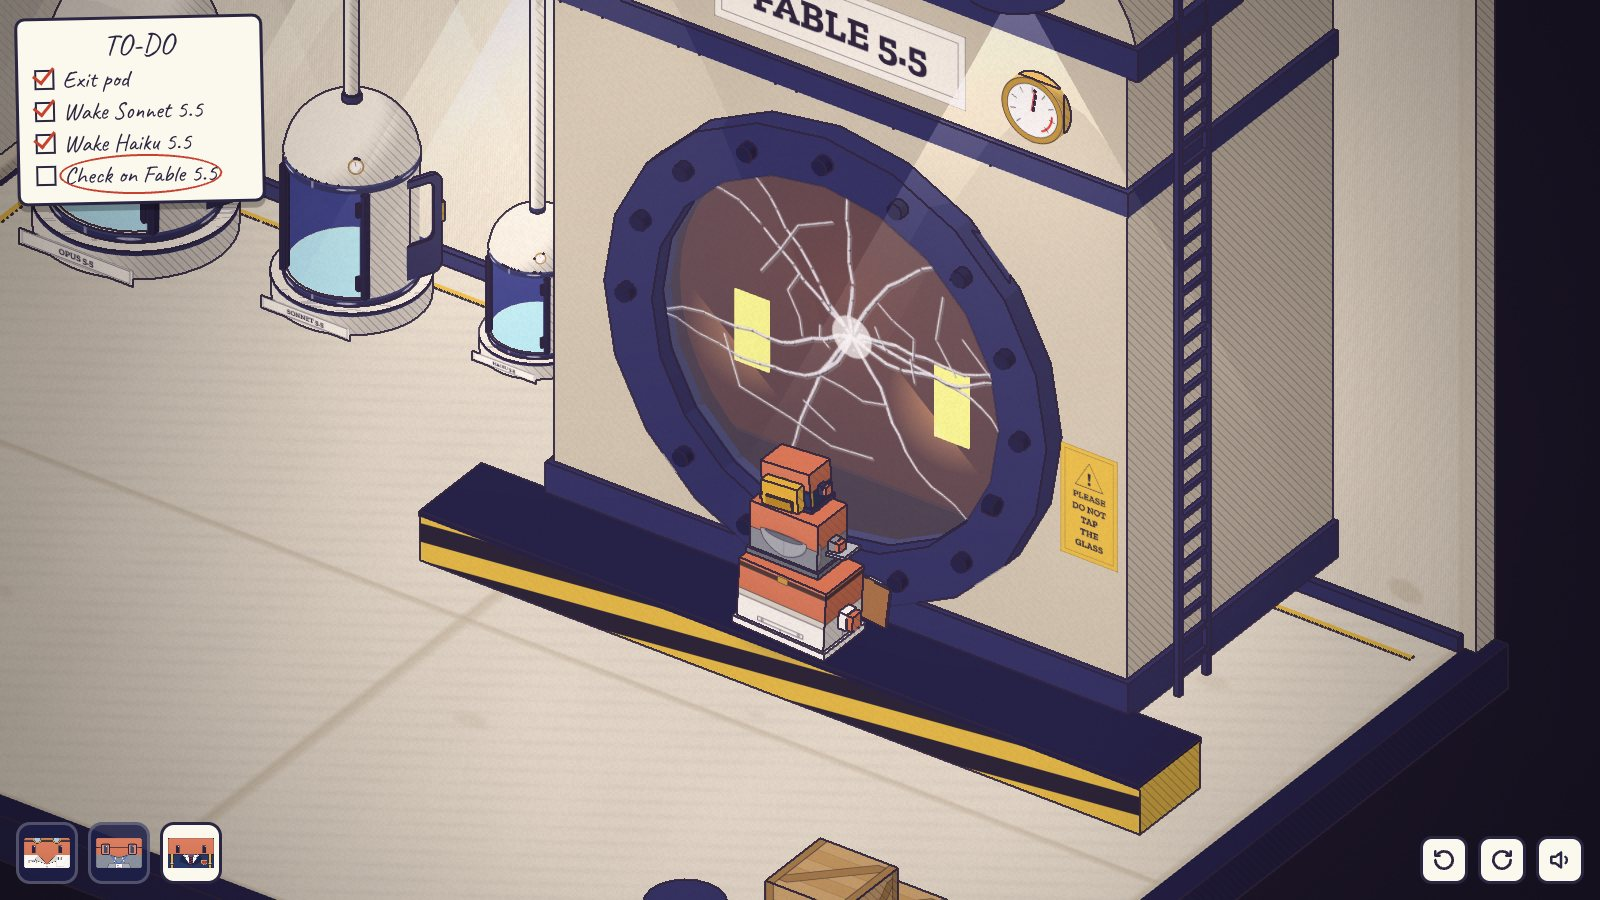
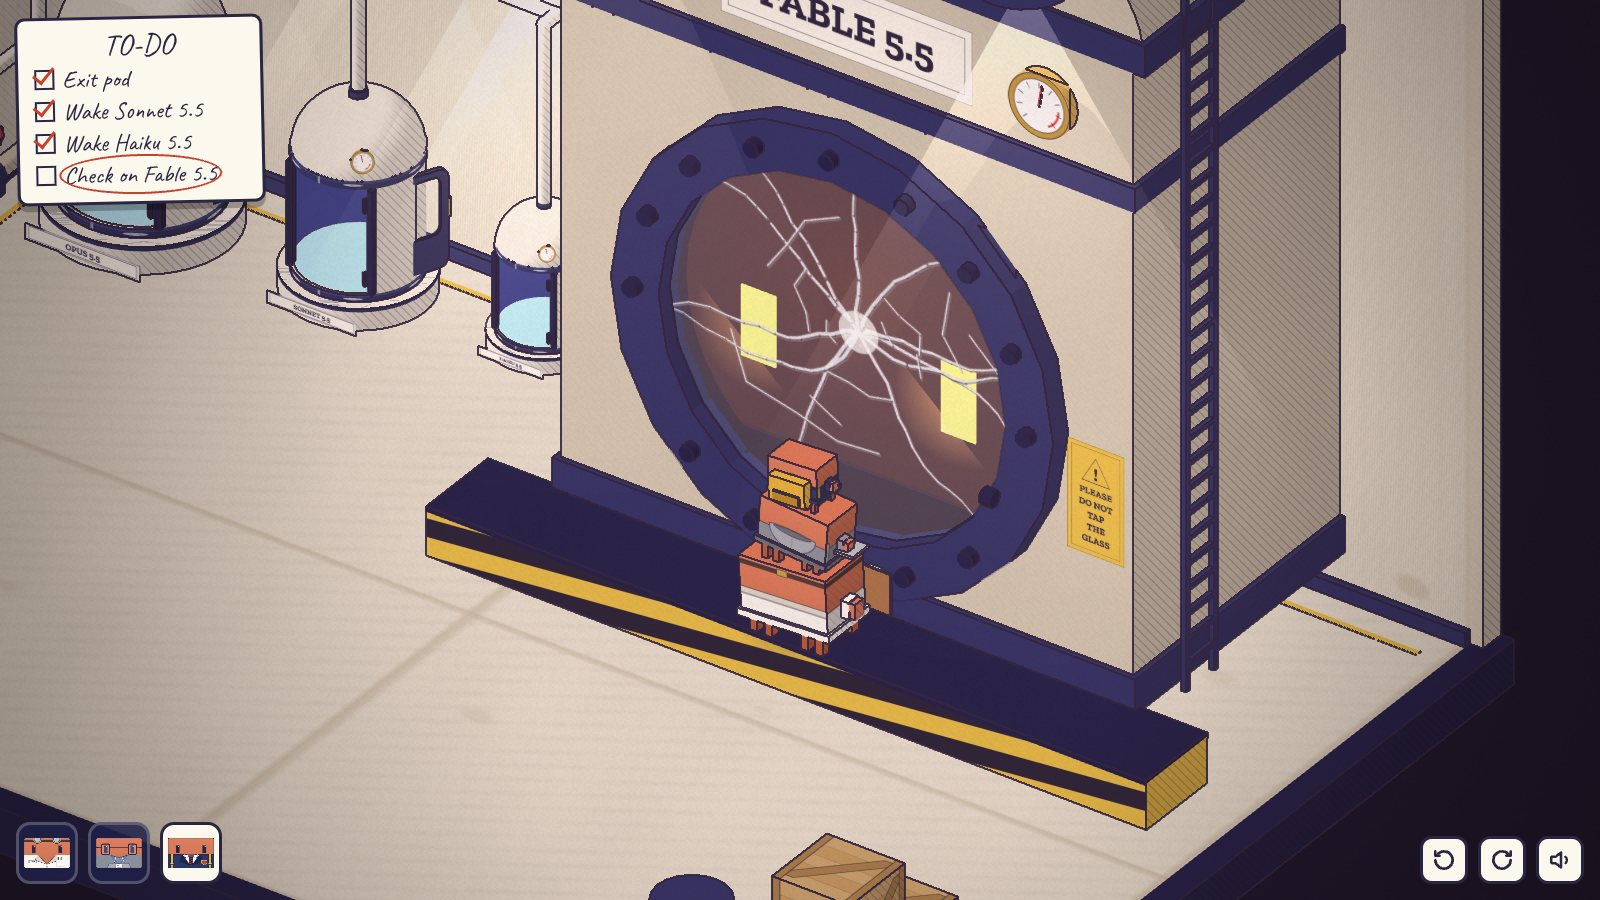
Make the steam valves readable and give the Clawds visible legs
The steam station is rebuilt so the plumbing is physically consistent:
the feed comes down the corner into a header, through an inline main
gate valve, then three tees. Each branch has a ball valve and its own
gauge in one row, then steps out to its own depth and height, so the
pipes cross in view but never touch. Branch A no longer runs into the
feed pipe.

Valve state is visible at a glance: a lever along the pipe is open,
across it is closed, and the main valve's yellow stem rises when open.
A live branch weeps steam at its joints so its route can be followed,
and partial pressure at Sonnet's pod hisses without melting the ice.

The legs were one row under the middle of the body and the camera never
saw them. Clawds now have a front and a back row of four, flush with
the faces, and the coat hem no longer hangs over them.

Claude-Session: https://claude.ai/code/session_01Wui1FHBhAM7nHXEEe48x3D

diff --git a/src/diorama/level0.js b/src/diorama/level0.js
@@ -5,11 +5,14 @@
 
    Puzzles (in the order they usually fall):
      1. Inside the pod: wipe the frost, then turn the wheel to get out.
-     2. Sonnet's pod is frozen shut. Steam comes from the reactor through one
-        main valve and three unlabelled branch valves whose pipes cross on the
-        back wall. Pressure splits between open branches, so Sonnet's pod only
-        thaws when its branch is the only one open. Trace the pipes (turn the
-        diorama to see which pipe passes in front) or read the pod gauges.
+     2. Sonnet's pod is frozen shut. Steam comes from the reactor down the
+        corner into a header on the left wall: one main gate valve (its stem
+        rises when open), then three unlabelled branch ball valves (lever along
+        the pipe = open, across = closed), each with its own gauge. The branch
+        pipes climb the wall at three depths, cross, and run along the back wall
+        to the pods. Pressure splits between open branches, so Sonnet's pod
+        only thaws when its branch is the only one open. Steam weeps from the
+        joints of a live branch, so its route can be followed.
      3. Haiku's rattling pod has lost its wheel. Haiku keeps looking at it:
         it is on top of the locker, 2.2 high. Push the caster crate under it,
         Opus climbs the crate, Sonnet climbs Opus.
@@ -34,13 +37,14 @@
   };
   const RX = 11.2;                       // reactor centre
   const COL_X = 7.05;                    // column between the bay and containment
-  const VALVE_Y = 0.88;                  // the three branch valves sit side by side on the left wall
+  const VALVE_Y = 0.9;                   // the three branch valves sit in a row on the left wall
+  const VALVE_X = 0.65;
   const VALVES = [                       // which pod each one feeds (the pipes say so, nothing else does)
-    { id: 'A', z: 3.1, depth: 0.25, pod: 'sonnet' },
-    { id: 'B', z: 3.6, depth: 0.45, pod: 'opus' },
-    { id: 'C', z: 4.1, depth: 0.65, pod: 'haiku' },
+    { id: 'A', z: 3.15, depth: 0.9, pod: 'sonnet' },
+    { id: 'B', z: 3.75, depth: 0.65, pod: 'opus' },
+    { id: 'C', z: 4.35, depth: 0.4, pod: 'haiku' },
   ];
-  const MAIN = { x: 0.37, y: 0.95, z: 2.6 };
+  const MAIN = { x: 0.3, y: 1.0, z: 2.1 };  // gate valve in the header, wheel on top
   const LOCKER = { x: 0.3, z: 6.0, h: 2.2 };
   const CRATE0 = [2.3, 8.0];
 
@@ -149,43 +153,72 @@
     L.pipeGroups = { back: backPipes, left: leftPipes };
     // feed (thicker, reactor-coloured)
     run(backPipes, [[RX - 3.3, 6.2, 1.2], [RX - 3.3 - 0.4, 6.2, 1.2], [RX - 3.7, 6.2, 0.3], [0.3, 6.2, 0.3]], 0.1, P.REACTOR);
-    run(leftPipes, [[0.3, 6.2, 0.3], [0.3, 0.45, 0.3], [0.3, 0.45, 4.15]], 0.1, P.REACTOR);
+    run(leftPipes, [[0.3, 6.2, 0.3], [0.3, 0.45, 0.3], [0.3, 0.45, 4.3]], 0.1, P.REACTOR);
     [2.0, 4.0].forEach(x => backPipes.add(K.flange(x, 6.2, 0.3, 0.1, 'x')));
     leftPipes.add(K.flange(0.3, 3.0, 0.3, 0.1, 'y'));
+    // header along the left wall, capped at the far end
+    leftPipes.add(K.cyl(0.13, 0.13, 0.06, P.NAVY, 0.3, 0.45, 4.6, 14).rotateX(PI / 2));
+    // main gate valve, inline in the header; the yellow stem rises out of the wheel when open
+    leftPipes.add(K.box(0.3, 0.3, 0.36, P.NAVY, 0.3, 0.45, MAIN.z));
+    [MAIN.z - 0.2, MAIN.z + 0.2].forEach(z => leftPipes.add(K.flange(0.3, 0.45, z, 0.1, 'z')));
+    leftPipes.add(K.cyl(0.07, 0.09, 0.4, P.NAVY, 0.3, 0.78, MAIN.z, 12));
+    const mainW = K.wheel(0.22);
+    mainW.position.set(MAIN.x, MAIN.y, MAIN.z);
+    mainW.rotation.x = -PI / 2;
+    leftPipes.add(mainW);
+    const stemG = new T.Group();
+    stemG.position.set(MAIN.x, MAIN.y, MAIN.z);
+    stemG.add(K.cyl(0.045, 0.045, 1, P.SAFETY, 0, 0.5, 0, 8));
+    stemG.scale.y = 0.06;
+    leftPipes.add(stemG);
+    L.main = { mesh: mainW, stem: stemG, open: false };
+
+    // branches: a tee off the header, up through a ball valve and a gauge (all three in
+    // one row), then each steps out to its own depth and runs across the left wall and
+    // the back wall to its pod. Different depths and heights: they cross in view but
+    // never touch.
     const b = (x, y, z) => [x, y, z];
+    const topOf = n => L.pods[n].riserTop;
+    const VX = VALVE_X;
     const branch = {
-      A: { left: [b(0.25, 0.45, 3.1), b(0.25, 2.8, 3.1), b(0.25, 2.8, 4.55), b(0.25, 4.2, 4.55), b(0.25, 4.2, 0.35)],
-           back: [b(0.25, 4.2, 0.35), b(3.85, 4.2, 0.35), b(3.85, 4.2, 0.95), b(3.85, L.pods.sonnet.riserTop, 0.95)] },
-      B: { left: [b(0.45, 0.45, 3.6), b(0.45, 2.2, 3.6), b(0.45, 2.2, 2.6), b(0.45, 5.0, 2.6), b(0.45, 5.0, 0.6)],
-           back: [b(0.45, 5.0, 0.6), b(1.5, 5.0, 0.6), b(1.5, 5.0, 1.15), b(1.5, L.pods.opus.riserTop, 1.15)] },
-      C: { left: [b(0.65, 0.45, 4.1), b(0.65, 3.4, 4.1), b(0.65, 3.4, 2.0), b(0.65, 4.6, 2.0), b(0.65, 4.6, 0.85)],
-           back: [b(0.65, 4.6, 0.85), b(5.85, 4.6, 0.85), b(5.85, 4.6, 0.75), b(5.85, L.pods.haiku.riserTop, 0.75)] },
+      A: { left: [b(0.3, 0.45, 3.15), b(VX, 0.45, 3.15), b(VX, 1.85, 3.15), b(0.9, 1.85, 3.15), b(0.9, 2.3, 3.15), b(0.9, 2.3, 2.0), b(0.9, 3.3, 2.0), b(0.9, 3.3, 0.9)],
+           back: [b(0.9, 3.3, 0.9), b(3.85, 3.3, 0.9), b(3.85, 3.3, 0.95), b(3.85, topOf('sonnet'), 0.95)] },
+      B: { left: [b(0.3, 0.45, 3.75), b(VX, 0.45, 3.75), b(VX, 2.05, 3.75), b(VX, 2.05, 2.6), b(VX, 3.9, 2.6), b(VX, 3.9, 0.7)],
+           back: [b(VX, 3.9, 0.7), b(1.5, 3.9, 0.7), b(1.5, 3.9, 1.15), b(1.5, topOf('opus'), 1.15)] },
+      C: { left: [b(0.3, 0.45, 4.35), b(VX, 0.45, 4.35), b(VX, 1.85, 4.35), b(0.4, 1.85, 4.35), b(0.4, 2.7, 4.35), b(0.4, 2.7, 1.7), b(0.4, 3.6, 1.7), b(0.4, 3.6, 0.55)],
+           back: [b(0.4, 3.6, 0.55), b(5.85, 3.6, 0.55), b(5.85, 3.6, 0.75), b(5.85, topOf('haiku'), 0.75)] },
     };
     Object.values(branch).forEach(br => { run(leftPipes, br.left); run(backPipes, br.back); });
-    // header stubs out to each branch's depth
-    VALVES.forEach(v => { if (v.depth > 0.3) leftPipes.add(K.pipe(0.3, 0.45, v.z, v.depth, 0.45, v.z, PR)); });
+    // where steam weeps from a live branch: its elbows above the valve, on whichever wall they hang
+    L.weeps = {};
+    Object.entries(branch).forEach(([id, br]) => {
+      L.weeps[id] = [
+        ...br.left.slice(2).map(p => ({ p, wall: 'left' })),
+        ...br.back.slice(1, -1).map(p => ({ p, wall: 'back' })),
+      ];
+    });
 
-    // valve wheels, facing into the room
+    // ball valves: lever along the pipe (up) = open, across the pipe = closed
     L.valves = {};
     VALVES.forEach(v => {
-      const w = K.wheel(0.13);
-      w.position.set(v.depth + 0.11, VALVE_Y, v.z);
-      w.rotation.y = PI / 2;
-      leftPipes.add(w);
-      leftPipes.add(K.box(0.1, 0.1, 0.1, P.NAVY, v.depth, VALVE_Y, v.z));
-      L.valves[v.id] = Object.assign({ mesh: w, open: v.id !== 'A', y: VALVE_Y }, v);
+      const d = VALVE_X;
+      const body = K.cyl(0.1, 0.1, 0.24, P.NAVY, d, VALVE_Y, v.z, 12);
+      leftPipes.add(body);
+      leftPipes.add(K.cyl(0.03, 0.03, 0.14, P.NAVY, d + 0.07, VALVE_Y, v.z, 8).rotateZ(PI / 2));
+      const lever = new T.Group();
+      lever.position.set(d + 0.14, VALVE_Y, v.z);
+      lever.add(K.box(0.035, 0.4, 0.07, P.WHEEL_RED, 0, 0.18, 0));
+      lever.add(K.box(0.05, 0.1, 0.09, P.WHEEL_RED_DARK, 0, 0.36, 0));
+      leftPipes.add(lever);
+      const g = K.gauge(0.13);
+      g.position.set(d + 0.1, VALVE_Y + 0.6, v.z);
+      g.rotation.y = PI / 2;
+      leftPipes.add(K.pipe(d, VALVE_Y + 0.6, v.z, d + 0.06, VALVE_Y + 0.6, v.z, 0.025, P.NAVY));
+      leftPipes.add(g);
+      const open = v.id !== 'A';
+      lever.rotation.x = open ? 0 : PI / 2;
+      L.valves[v.id] = Object.assign({ mesh: lever, body, lever, gauge: g, open, y: VALVE_Y }, v);
     });
-    const mainW = K.wheel(0.2);
-    mainW.position.set(MAIN.x + 0.04, MAIN.y, MAIN.z);
-    mainW.rotation.y = PI / 2;
-    leftPipes.add(mainW);
-    leftPipes.add(K.pipe(0.3, 0.45, MAIN.z, 0.3, MAIN.y, MAIN.z, 0.08, P.REACTOR));
-    leftPipes.add(K.box(0.14, 0.18, 0.18, P.NAVY, 0.3, MAIN.y, MAIN.z));
-    const mainG = K.gauge(0.2);
-    mainG.position.set(0.12, MAIN.y + 0.75, MAIN.z);
-    mainG.rotation.y = PI / 2;
-    leftPipes.add(mainG);
-    L.main = { mesh: mainW, open: false, gauge: mainG };
     back.userData.extra = [backPipes];
     left.userData.extra = [leftPipes];
 
@@ -267,7 +300,7 @@
     Object.values(PODS).forEach(c => G.blockCircle(c.x, c.z, 0.98 * c.k));
     G.blockRect(COL_X - 0.42, 0, COL_X + 0.42, 0.5);
     G.blockRect(RX - 3.3, 0, RX + 3.3, 3.4);
-    G.blockRect(0, 2.3, 0.95, 4.45, 0.2);
+    G.blockRect(0, 1.8, 1.0, 4.75, 0.2);
     G.blockRect(RX + 3.3, 2.2, RX + 3.65, 3.0, 0.2);
     G.blockRect(RX - 4.15, 3.4, RX + 4.15, 3.85, 0);
     G.height(RX - 4.15, 3.85, RX + 4.15, 4.4, 0.56);
@@ -280,5 +313,5 @@
     return L;
   }
 
-  CL.Level0 = { build, RW, RD, PODS, RX, VALVES, VALVE_Y, MAIN, LOCKER, CRATE0, COL_X };
+  CL.Level0 = { build, RW, RD, PODS, RX, VALVES, VALVE_Y, VALVE_X, MAIN, LOCKER, CRATE0, COL_X };
 })(window.CL = window.CL || {});

diff --git a/src/diorama/play0.js b/src/diorama/play0.js
@@ -231,7 +231,7 @@
     const crateObstacles = [
       [0, 0, LV.RW, 0.35], [0, LV.RD - 0.35, LV.RW, LV.RD], [0, 0, 0.35, LV.RD], [LV.RW - 0.35, 0, LV.RW, LV.RD],
       [LV.LOCKER.x - 0.3, LV.LOCKER.z - 0.55, LV.LOCKER.x + 0.3, LV.LOCKER.z + 0.55],
-      [LV.COL_X - 0.42, 0, LV.COL_X + 0.42, 0.5], [0, 2.3, 0.95, 4.45], [LV.RX - 4.15, 0, LV.RX + 4.15, 4.4],
+      [LV.COL_X - 0.42, 0, LV.COL_X + 0.42, 0.5], [0, 1.8, 1.0, 4.75], [LV.RX - 4.15, 0, LV.RX + 4.15, 4.4],
       [14.45, 7.5, 15.35, 9.35], [13.0, 8.7, 13.8, 9.5],
     ];
     // skip: an actor to ignore (the one moving the crate), or true to ignore all of them
@@ -511,30 +511,38 @@
       },
     });
 
-    // valve block + main valve
+    // valve block + main valve. The valves only change state here; onUpdate moves the
+    // levers and the stem to match, so what you see is always what the pipes do.
+    async function operate(a, dur) {
+      play('creak');
+      a.armR = 1.2; a.armL = 1.0;
+      await new Promise(res => world.tween(dur, u => { a.armR = 1.0 + 0.4 * Math.sin(u * PI * 4); }, res));
+      a.armR = 0; a.armL = 0;
+    }
     Object.values(L.valves).forEach(v => {
-      world.addPick(v.mesh, {
+      world.addPick([v.lever, v.body], {
         kind: 'valve',
         onClick: () => world.interact({
           spot: () => [1.5, v.z, -PI / 2],
           use: async a => {
             if (a.reachY < v.y - 0.02) { world.bubble(a, 'up'); return; }
             v.open = !v.open;
-            await turnWheel(a, v.mesh, v.open ? -1 : 1);
-            if (S.main && v.open) play('hiss');
+            await operate(a, 0.45);
             play('clunk');
+            if (S.main && v.open) play('hiss');
           },
         }),
       });
+      world.addPick(v.gauge, { kind: 'gauge', onClick: () => world.bubble(world.active, 'eye') });
     });
     world.addPick(L.main.mesh, {
       kind: 'valve',
       onClick: () => world.interact({
-        spot: () => [1.5, LV.MAIN.z, -PI / 2],
+        spot: () => [1.45, LV.MAIN.z + 0.4, -1.9],
         use: async a => {
           if (a.reachY < LV.MAIN.y - 0.02) { world.bubble(a, 'up'); return; }
           S.main = !S.main;
-          await turnWheel(a, L.main.mesh, S.main ? -1 : 1, 'z');
+          await operate(a, 0.9);
           play(S.main ? 'hiss' : 'clunk');
           if (S.main) burst(LV.MAIN.x + 0.3, LV.MAIN.y + 0.3, LV.MAIN.z, 6, 0.5, 0.12);
         },
@@ -577,8 +585,30 @@
         L.pods[n].gauge.userData.set(0.08 + 0.9 * S.shown[n] + 0.02 * Math.sin(t * 9) * S.shown[n]);
       });
       S.shown.main += ((S.main ? 1 : 0) - S.shown.main) * Math.min(1, dt * 2.5);
-      L.main.gauge.userData.set(0.05 + 0.9 * S.shown.main);
+      // levers swing to match their valve; the main stem rises as its wheel spins
+      Object.values(L.valves).forEach(v => {
+        const to = v.open ? 0 : PI / 2;
+        v.lever.rotation.x += (to - v.lever.rotation.x) * Math.min(1, dt * 9);
+        v.gauge.userData.set(0.05 + 0.9 * S.shown[v.pod] + 0.02 * Math.sin(t * 9) * S.shown[v.pod]);
+      });
+      const st = L.main.stem, sTo = S.main ? 0.5 : 0.06;
+      const ds = (sTo - st.scale.y) * Math.min(1, dt * 2.2);
+      st.scale.y += ds;
+      L.main.mesh.rotation.z += ds * 14;
+      // a live branch weeps steam at its joints, so its route can be followed
+      ['A', 'B', 'C'].forEach(id => {
+        const pr = S.pressure[L.valves[id].pod];
+        if (pr < 0.01 || Math.random() > dt * 5 * pr) return;
+        const ws = L.weeps[id].filter(w => L.pipeGroups[w.wall].visible);
+        if (!ws.length) return;
+        const w = ws[Math.floor(Math.random() * ws.length)].p;
+        puff(w[0] + 0.05, w[1] + 0.05, w[2] + 0.05, (Math.random() - 0.3) * 0.2, 0.35, (Math.random() - 0.3) * 0.2, 0.05 + 0.04 * pr, 0.7);
+      });
       // Sonnet's ice only gives at full pressure
+      // some steam reaches the ice: it hisses, but it takes full pressure to melt it
+      if (!S.thawed && S.pressure.sonnet > 0.01 && S.pressure.sonnet <= 0.95 && Math.random() < dt * 4 * S.pressure.sonnet) {
+        puff(sp.x + (Math.random() - 0.5) * 0.4, 1.9 * sp.k, sp.z + 0.6 * sp.k, 0, 0.25, 0.2, 0.05, 0.5);
+      }
       if (!S.thawed && S.pressure.sonnet > 0.95) {
         S.thaw += dt / 2.2;
         ice.children.forEach((c, i) => { c.scale.setScalar(Math.max(0.01, 1 - S.thaw * (1 + i * 0.1))); });

diff --git a/src/diorama/kit.js b/src/diorama/kit.js
@@ -62,20 +62,25 @@
     rig.add(body);
     // coat / hoodie / blazer hem hanging below the body
     const hemCol = { labcoat: P.COAT, hoodie: P.HOODIE_DARK, uniform: P.BLAZER }[st.outfit];
-    if (hemCol) rig.add(box(W + 0.06 * W, 0.08 * W, D + 0.06 * W, hemCol, 0, LEG - 0.035 * W, 0));
+    if (hemCol) rig.add(box(W + 0.06 * W, 0.08 * W, D + 0.06 * W, hemCol, 0, LEG + 0.045 * W, 0));
     const eyes = [-1, 1].map(s => {
       const e = box(0.0833 * W, 0.1667 * W, 0.01, P.INK, s * (0.5 - 0.2083) * W, LEG + 0.4167 * W, D / 2 + 0.006, { flat: true });
       rig.add(e);
       return e;
     });
-    const legs = CL.Clawd.LEGS.map(lx => {
+    // the short's four legs, as seen from the front, in a front row and a back row: a crab's
+    // eight. Flush with the faces, so the camera looking down still sees them from any side.
+    const LD = 0.11 * W;
+    const legs = [];
+    [1, -1].forEach(row => CL.Clawd.LEGS.forEach((lx, i) => {
       const g = new T.Group();
-      g.position.set(lx * W, LEG + 0.02 * W, 0);
-      const l = box(0.0833 * W, LEG + 0.04 * W, 0.11 * W, P.ORANGE_DARK, 0, -(LEG + 0.04 * W) / 2, 0);
-      g.add(l);
+      g.position.set(lx * W, LEG + 0.02 * W, row * (D / 2 - LD / 2 - 0.01 * W));
+      g.userData.z0 = g.position.z;
+      g.userData.ph = (i % 2) ^ (row < 0 ? 1 : 0) ? Math.PI : 0;
+      g.add(box(0.0833 * W, LEG + 0.04 * W, LD, P.ORANGE_DARK, 0, -(LEG + 0.04 * W) / 2, 0));
       root.add(g);
-      return g;
-    });
+      legs.push(g);
+    }));
     const a = 0.1667 * W;
     const sleeve = { labcoat: P.COAT, hoodie: P.HOODIE, uniform: P.BLAZER }[st.outfit];
     const arms = [-1, 1].map(s => {
@@ -125,10 +130,10 @@
       rig.position.y = bob + pose.lift;
       rig.rotation.z = -pose.tilt * Math.PI / 180;
       rig.scale.set(pose.sq, 1 / pose.sq, pose.sq);
-      legs.forEach((g, i) => {
-        const ph = pose.walk + (i === 0 || i === 2 ? 0 : Math.PI);
+      legs.forEach(g => {
+        const ph = pose.walk + g.userData.ph;
         g.position.y = LEG + 0.02 * W + Math.max(0, Math.sin(ph)) * 0.08 * W * pose.amp + pose.lift;
-        g.position.z = Math.cos(ph) * 0.06 * W * pose.amp;
+        g.position.z = g.userData.z0 + Math.cos(ph) * 0.04 * W * pose.amp;
       });
       [pose.armL, pose.armR].forEach((r, i) => {
         const s = i === 0 ? -1 : 1;
@@ -241,7 +246,7 @@
     dome.scale.y = 0.9;
     root.add(dome);
     root.add(cyl(0.12 * k, 0.12 * k, 0.18 * k, P.NAVY, 0, 2.05 * k + r * 0.9, 0, 12));
-    const gg = gauge(0.1 * k);
+    const gg = gauge(0.15 * k);
     gg.position.set(0.48 * k, 2.3 * k, 0.6 * k);
     gg.rotation.y = 0.65;
     gg.rotation.x = -0.35;

diff --git a/docs/DESIGN.md b/docs/DESIGN.md
@@ -50,7 +50,7 @@
 
 | 系统 | 规则 | 第一次出现 |
 | --- | --- | --- |
-| 蒸汽压力 | 一个总阀，压力平均分给所有打开的支路 | 序章 |
+| 蒸汽压力 | 一个总阀，压力平均分给所有打开的支路；阀门的开关一眼能看出来 | 序章 |
 | 重量 | 推箱子（Opus）、压板、配重笼、叠罗汉 | 序章 |
 | 配电 | 断路器有总电流上限，超了就跳闸，全屋变黑 | 第一章 |
 | 数据口 | Sonnet 插上电脑，屏幕上显示图形化的读数 | 第一章 |
@@ -76,13 +76,15 @@
 
 ### 序章 · 实验室奇妙夜（已可玩）
 
-**场景**：冷冻舱区和反应釜，夜里。左墙是蒸汽站：一个总阀，三个一模一样、没有标签的支路阀。三根支路管顺着左墙爬上后墙，交叉了好几次，再分别落到三个舱顶。
+**场景**：冷冻舱区和反应釜，夜里。蒸汽从反应釜出来，沿后墙顶走到墙角，下到左墙底部的总管。总管上先是一个总阀（闸阀，手轮朝上，打开时黄色阀杆升起来），然后分出三条支路，每条一个球阀（手柄顺着管子是开，横过来是关）和一块压力表，三个排成一排、没有标签。三根支路管各占一层深度、各走一个高度，在左墙上交叉，再沿后墙分别落到三个舱顶，看上去交叉，实际互不相碰。
 
 **谜题链**
 
 1. **出舱。** 舱门结了霜，看不见里面。拖动擦掉霜，才看到门内侧的手轮，转动出舱。
 2. **解冻 Sonnet。** Sonnet 的舱冻住了，手轮转不动。打开总阀，再打开支路阀。压力平均分给打开的支路，只有 Sonnet 那一路单独打开时压力才是满的，冰才会化。
-   - 哪个阀通哪个舱，要顺着管道去找。管道在后墙交叉，转动视角才看得清哪根在前面；也可以开一个阀，看哪个舱顶的压力表动了。
+   - 每个支路阀上方的压力表直接显示这一路的压力：开两路各一半，开三路各三分之一。
+   - 哪个阀通哪个舱，要顺着管道去找。通着蒸汽的那一路，接头处会冒出细细的白汽，可以顺着它一路找到舱顶；转动视角能看清哪根管在前面。
+   - Sonnet 那一路压力不够时，冰面会冒一点汽，但不会化。
    - 错路：三个全开，每个舱只有三分之一。只开 Opus 那一路，蒸汽从空舱里呼呼往外冒。只开 Haiku 那一路，Haiku 的舱抖得更厉害了。
 3. **Haiku 的手轮。** Haiku 的舱只剩一根光秃秃的轴，手轮不见了。Haiku 在舱里一直盯着一个方向，顺着它的视线，手轮在储物柜顶上，2.2 高。
    - Opus 够不着，Sonnet 也够不着。房间另一头有一个带轮子的木箱：点箱子的哪一面，Opus 就从那一面把它推开；推不动（顶到墙）就往回拉，所以箱子永远不会卡死。把它弄到柜子旁边，Opus 爬上箱子，Sonnet 再爬到 Opus 头上，就够到了。
@@ -93,11 +95,11 @@
 | | | |
 | --- | --- | --- |
 | ![醒来](diorama/start.jpg) | ![蒸汽站](diorama/steam.jpg) | ![储物柜](diorama/locker.jpg) |
-| 醒来，舱门结霜 | 蒸汽站和交叉的支路管 | 木箱、Opus、Sonnet，够到手轮 |
+| 醒来，舱门结霜 | 蒸汽站：总阀开着（黄杆升起），A 关，B、C 开 | 木箱、Opus、Sonnet，够到手轮 |
 | ![叠罗汉](diorama/stack.jpg) | ![背面](diorama/back.jpg) | ![挣脱](diorama/breakout.jpg) |
 | 三只按大小叠在平台上 | 转到背面：切墙后能看见管道 | 挣脱 |
 
-**可交互物（约 25 个）**：三个舱门、霜、三个手轮和一根空轴、总阀和它的压力表、三个支路阀、三个舱顶压力表、储物柜、柜顶的手轮、木箱的顶面和四个侧面、平台、玻璃、牌子、釜上的仪表、杂物、钟、上锁的出口、三只 Clawd 自己。
+**可交互物（约 25 个）**：三个舱门、霜、三个手轮和一根空轴、总阀、三个支路阀和它们的压力表、三个舱顶压力表、储物柜、柜顶的手轮、木箱的顶面和四个侧面、平台、玻璃、牌子、釜上的仪表、杂物、钟、上锁的出口、三只 Clawd 自己。
 
 ### 第一章 · 预训练
 
